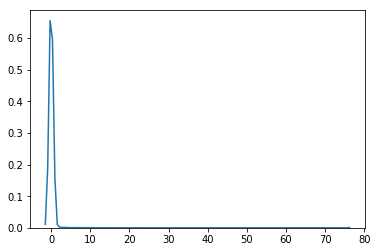
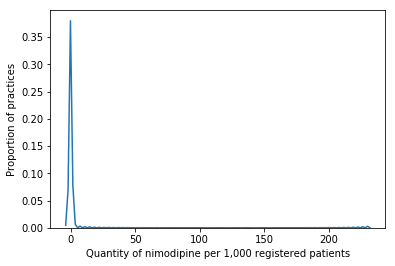
Use chart with wide-enough x-axis; bump font size

Changed region(s): [[0.0, 0.0278, 0.992, 0.9722]]

diff --git a/nimodipine-webapp/nimodipine/templates/_base.html b/nimodipine-webapp/nimodipine/templates/_base.html
@@ -7,7 +7,7 @@
   <style>
     body, p, td {
     font-family: 'Open Sans', sans-serif;
-    font-size: 10pt;
+    font-size: 12pt;
     }
 
     body.method-p a, body.method-f a {

diff --git a/nimodipine-webapp/nimodipine/views.py b/nimodipine-webapp/nimodipine/views.py
@@ -146,20 +146,20 @@ def make_chart(practice_value):
             logger.warn("Falling back to default font for drawing charts")
             fnt = ImageFont.load_default()
 
-    blue_text = "97% of practices \n(0 tablets per 1000 patients)"
-    red_text = "Your practice\n({} tablets per 1000 patients)".format(practice_value)
-    x_axis_origin_coords = (51, 226)
-    x_axis_end_coords = (364, 226)
+    blue_text = "99% of practices \n(0 tablets per 1000 patients)"
+    red_text = "Your practice\n({} tablets per 1000 patients)".format(round(float(practice_value)))
+    x_axis_origin_coords = (72, 228)
+    x_axis_end_coords = (385, 228)
     x_axis_width = x_axis_end_coords[0] - x_axis_origin_coords[0]
-    x_axis_max = 80  # The value at the extreme end of X-axis
-    blue_line_coords = (60, 30)  # coords of pointer to the peak in the chart
+    x_axis_max = 244  # The value at the extreme end of X-axis
+    blue_line_coords = (74, 21)  # coords of pointer to the peak in the chart
 
     practice_x = x_axis_origin_coords[0] + int(
         (float(practice_value) / x_axis_max * x_axis_width)
     )
     practice_coords = (practice_x, x_axis_origin_coords[1])
     # Arrived at by trial-and-error, so red text never overflows right edge of chart:
-    red_text_max_x = 170
+    red_text_max_x = 180
     red_text_min_x = blue_line_coords[0]
 
     def arrow(d, arrow_end, feather_end, fill="red", width=1):
